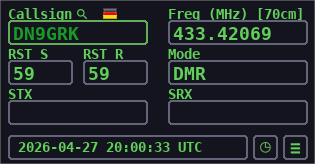
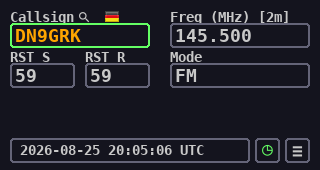
chore: add AppBuilder packaging configuration and update screenshots

Changed region(s): [[0.0, 0.0, 1.0, 1.0]]

diff --git a/main.py b/main.py
@@ -176,6 +176,13 @@ def main():
         for event in pygame.event.get():
             if event.type == pygame.QUIT: running = False
             elif event.type == pygame.KEYDOWN:
+                if event.key == pygame.K_F12:
+                    idx = 1
+                    while os.path.exists(f"./assets/{idx}.png"):
+                        idx += 1
+                    pygame.image.save(screen, f"./assets/{idx}.png")
+                    show_popup(f"Saved: {idx}.png", duration=2)
+                    continue
                 if lookup_screen:
                     res = lookup_screen.handle_event(event)
                     if res != "active":

diff --git a/PUBLISH.md b/PUBLISH.md
@@ -1,0 +1,60 @@
+# Application Store Publish Record
+
+Keep this file in the application project root. Update it when package
+metadata, listing copy, assets, privacy choices, or submission status changes.
+
+Portal: <https://dev.cardputer.cc/#/upload>
+
+## Package
+
+- Debian package path: `build/hamradiolog_0.1-m5stack1_arm64.deb`
+- Package: `hamradiolog`
+- Version: `0.1`
+- Architecture: `arm64`
+- Maintainer: `Stefan <dev@example.com>`
+- APPLaunch desktop path: `/usr/share/APPLaunch/applications/hamradiolog.desktop`
+- Executable path: `/usr/share/APPLaunch/bin/run.sh`
+
+## Source and Ownership
+
+- Public source repository: `https://github.com/stefexec/HamRadioLog`
+- Expected GitHub uploader/owner: `stefexec`
+- Hide uploader email: `true`
+
+## Listing
+
+- Application name: `Ham Radio Log`
+- One-line summary (maximum 80 characters): `Ham Radio Log for Cardputer Zero`
+- Description: `Ham Radio logger with ADIF export and Call lookup`
+- Categories (maximum 6): `Radio & Comms`
+
+## Assets
+
+- 256 x 256 source icon: `assets/icon.png`
+- Icon packaged in `.deb`: `share/images/icon.png`
+- Screenshot 1 (320 x 170): `assets/1.png`
+- Screenshot 2 (320 x 170): `assets/2.png`
+- Screenshot 3 (320 x 170): `assets/3.png`
+- Screenshot 4 (320 x 170): `assets/4.png`
+- Optional screenshot 5 (portal supports up to 6): TODO
+- Optional screenshot 6 (portal supports up to 6): TODO
+
+## Preflight
+
+- [ ] `.deb` exists and can be parsed.
+- [ ] Control fields contain Package, Version, Architecture, and Maintainer.
+- [ ] Architecture is appropriate for the package (`arm64` for native binaries).
+- [ ] APPLaunch `.desktop`, executable, and PNG icon exist inside the package.
+- [ ] Package name ownership and update version are valid.
+- [ ] Listing copy and categories have been reviewed.
+- [ ] Four clean 320 x 170 baseline screenshots exist.
+- [ ] No credentials, tokens, or private server details are embedded.
+- [ ] The user explicitly approved external submission.
+
+## Submission Result
+
+- Status: `not submitted`
+- Submitted at: TODO
+- Portal message: TODO
+- Actions URL: TODO
+- Tracking or pull-request URL: TODO
